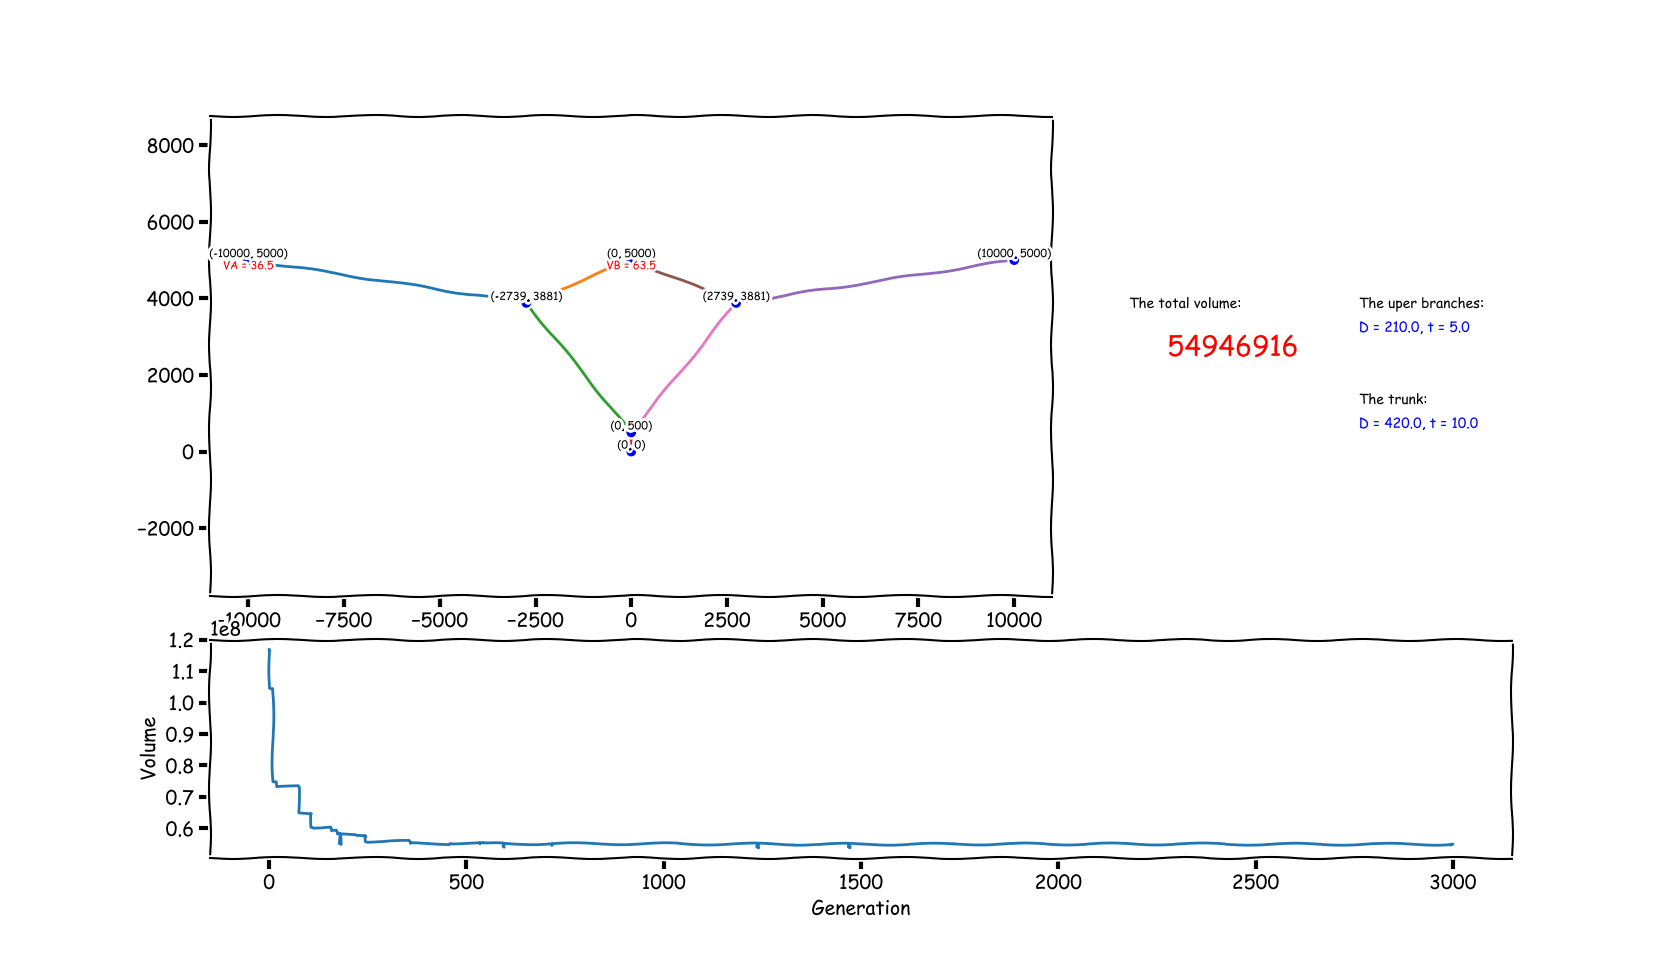
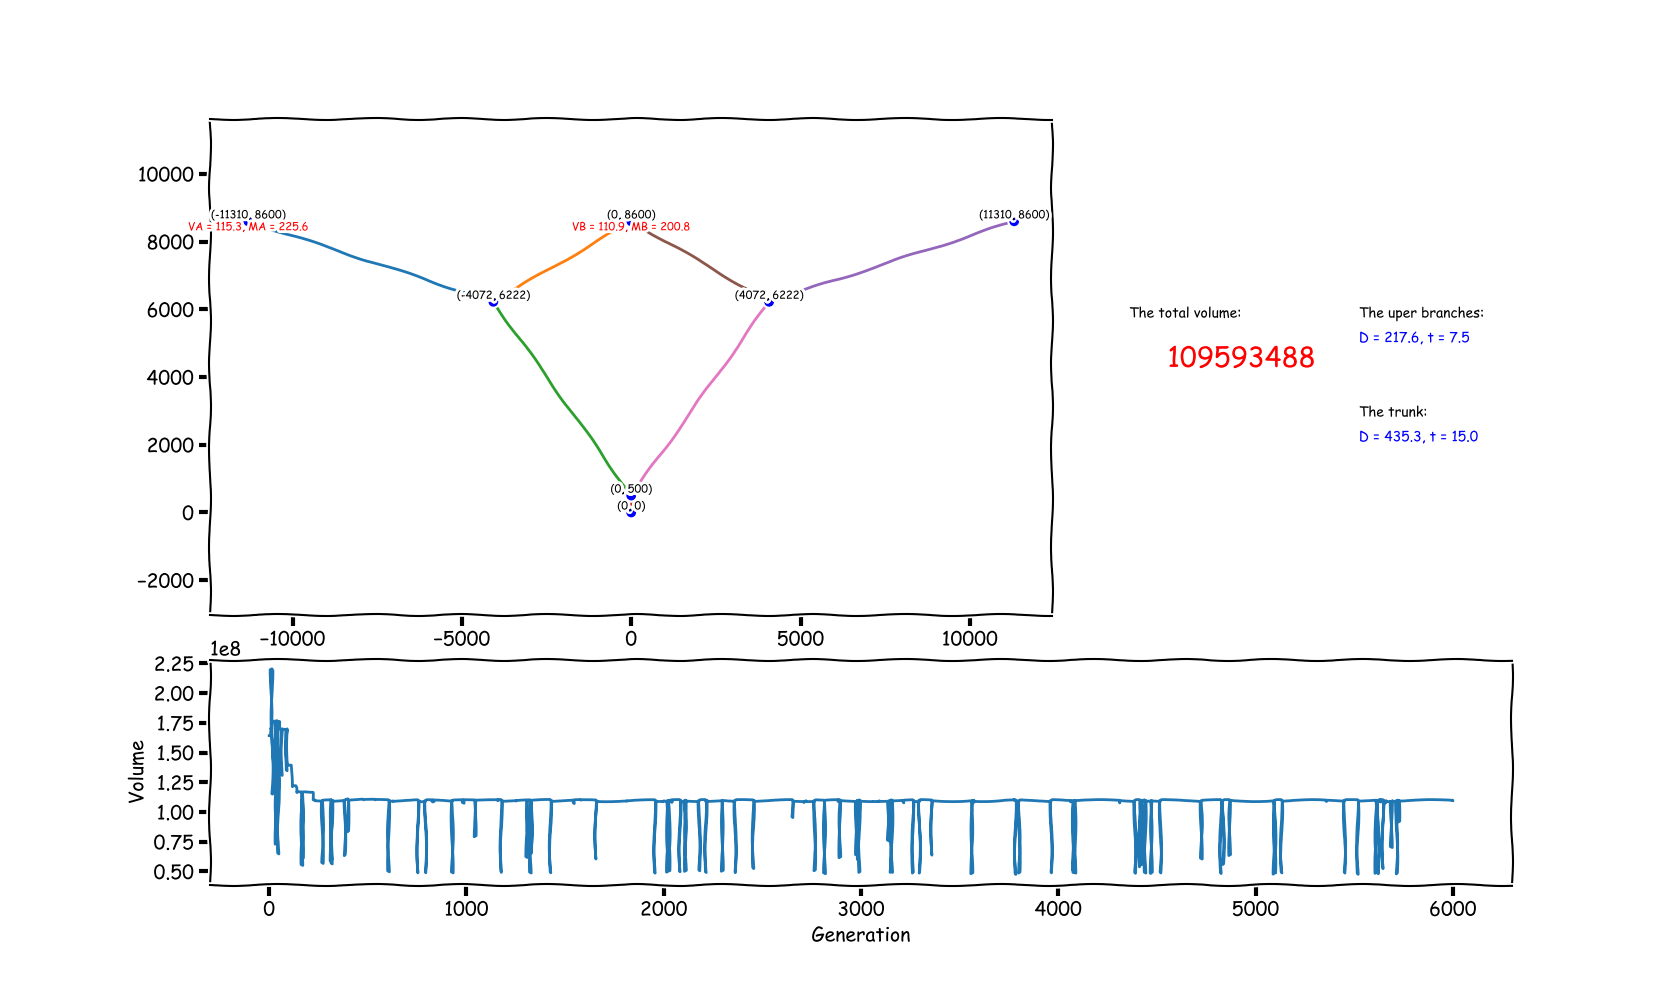
aaa

diff --git a/ring/ring_GA.py b/ring/ring_GA.py
@@ -15,24 +15,6 @@ def trans_comma_str(string):
 			continue
 	return lst
 
-'''
-def NM(Nv, M0, lv):
-	l = np.sqrt(lv.dot(lv))
-	elv = lv/l
-	N = np.sqrt(Nv.dot(Nv))
-	eNv = Nv/N
-	Mv = np.cross(lv, Nv)
-	eMv = Mv/np.sqrt(Mv.dot(Mv))
-	eMv = np.nan_to_num(eMv)
-
-	try:
-		thitar = np.arccos(lv.dot(Nv)/(l*N))
-	except Exception:
-		thitar = 0
-	P = N*np.cos(thitar)*elv
-	M = N*np.sin(thitar)*np.sqrt(lv.dot(lv))*eMv+M0
-	return P, M, l, thitar
-'''
 
 class Steel345():
 	def __init__(s, t):
@@ -180,7 +162,7 @@ def chromosome_translator(individual, tmax, start_elev, A, B, PC):
 
 
 #sfitness points: the minimun value gets the highest point.	
-def point1(v, rou, TF):
+def point1(v, rou, TF, shears):
 	'''Fitness based on total volumes!'''
 	if TF is True:
 		return 5-v/1e8
@@ -188,10 +170,13 @@ def point1(v, rou, TF):
 		return 0
 
 
-def point2(v, rou, TF):
-	'''Fitness based on energy density.'''
+def point2(v, rou, TF, shears):
+	'''Fitness based on beam shear similarity.'''
 	if TF is True:
-		return rou*100
+		if abs(shears[0][0]-shears[1][0])<1:
+			return 5-v/1e8
+		else:
+			return 0
 	else:
 		return 0
 
@@ -367,7 +352,11 @@ def rawdata(filein):
 			dic2 = {'oi': (2*Rcy, ls[3])}
 			shear1 = C[0]*np.cos(angs[0])
 			shear2 = C[1]*np.cos(angs[1])
-			return dic1, dic2, [shear1, shear2]
+			Mb0 = q[0]*ls[4]**2/12
+			deltaM = shear1*ls[4]-q[0]*ls[4]**2/2
+			MA = Mb0+deltaM/2
+			MB = Mb0-deltaM/2
+			return dic1, dic2, [(shear1/1000, MA/1e6), (shear2/1000, MB/1e6)]
 			
 		dic1 = solver(angs, ls, forces)[0]
 		dic2 = solver(angs, ls, forces)[1]
@@ -401,7 +390,7 @@ def rawdata(filein):
 		print('\n\n\nGeneration {}.\n'.format(generation))
 
 		volume_g = list(map(energy, population, [forces]*len(population)))
-		pts = [point(i, j, k) for i, j, k, ii in volume_g]
+		pts = [point(i, j, k, ii) for i, j, k, ii in volume_g]
 
 		if generation > 0.6*g_num and abs(np.average(pts)-max(pts)) <= 0.005:
 			print("Ending the run 'cause convergence almost achieved!")
@@ -412,7 +401,7 @@ def rawdata(filein):
 		pama = select(population, pts)
 		kids = reproduction(pama)
 		v_kids = list(map(energy, kids, [forces]*len(kids)))
-		pts_k = [point(i, j, k) for i, j, k, ii in v_kids]
+		pts_k = [point(i, j, k, ii) for i, j, k, ii in v_kids]
 
 		for i in sorted(pts[:])[:4]:
 			for j in pts_k[:]:
@@ -460,7 +449,7 @@ for i in rd[0][1]:
 
 shear_forces_description = []
 for i, j in zip(rd[5], ['A', 'B']):
-	shear_forces_description.append('V{} = {:.1f}'.format(j, i/1000))
+	shear_forces_description.append('V{} = {:.1f}, M{} = {:.1f}'.format(j, i[0], j, i[1]))
 
 with plt.xkcd():
 	fig1 = plt.figure('fig1')
